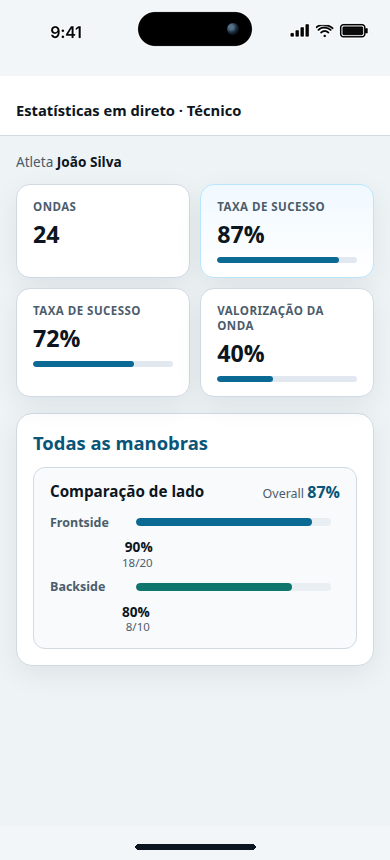
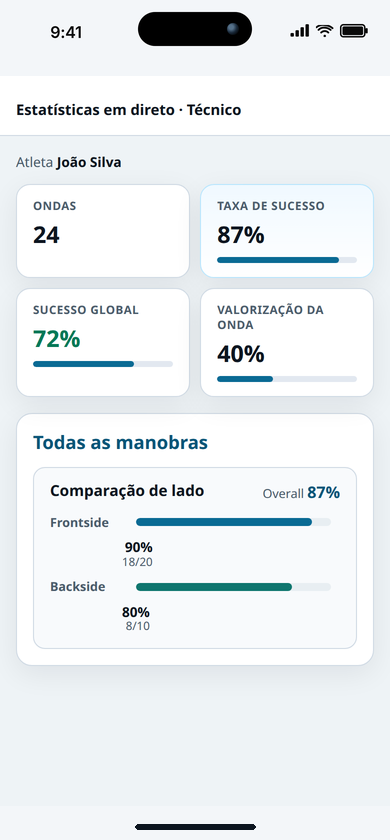
Fix duplicate success-rate label on landing hero screenshot.
The live-stats phone preview now shows Sucesso global instead of a
second Taxa de sucesso, matching the real session KPI grid.

Changed region(s): [[0.0308, 0.1238, 0.9538, 0.8048], [0.8, 0.031, 0.9538, 0.0619], [0.1231, 0.031, 0.1846, 0.0619]]

diff --git a/src/views/LandingView.tsx b/src/views/LandingView.tsx
@@ -254,7 +254,7 @@ export function LandingView() {
                 src="/landing/hero-live.png"
                 alt={showcase.imageAlt}
                 width={390}
-                height={860}
+                height={840}
                 decoding="async"
               />
             </div>
